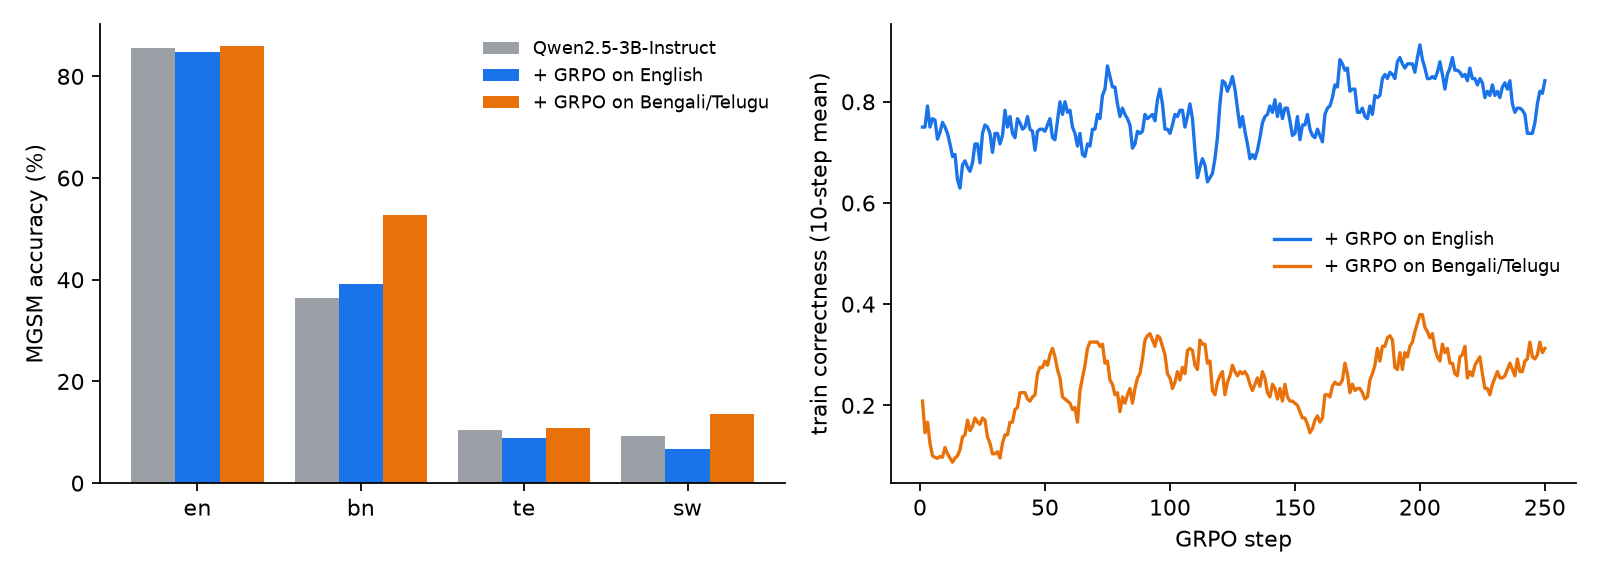
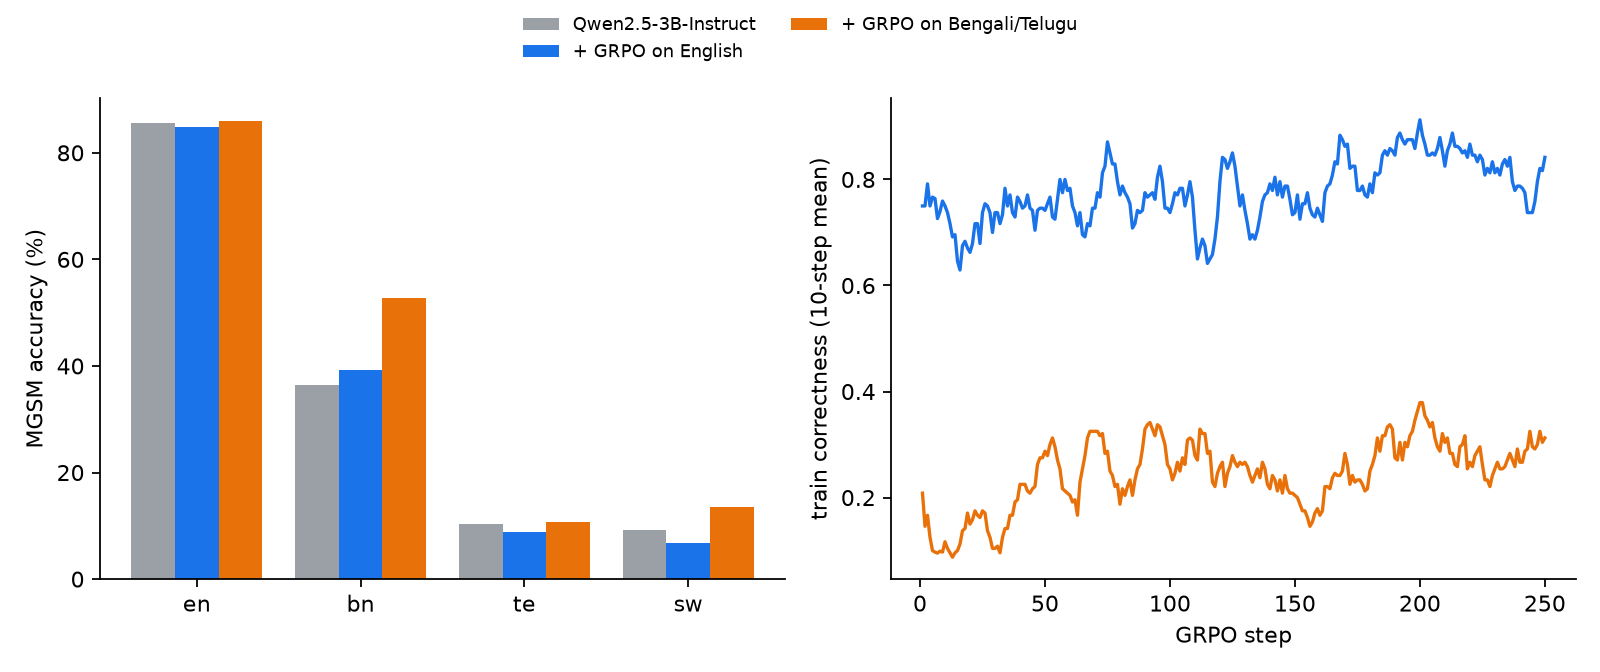
analyze: optional consistency arm, accuracy split by reasoning language, shared legend

diff --git a/scripts/analyze.py b/scripts/analyze.py
@@ -2,7 +2,7 @@
 
 Example:
     python scripts/analyze.py --base results/baseline/Qwen2.5-3B-Instruct \
-        --en results/full_en --indic results/full_indic --out results
+        --en results/full_en --indic results/full_indic [--cons results/full_indic_consistency] --out results
 """
 
 import argparse
@@ -38,33 +38,53 @@ def main():
     p.add_argument("--base", type=Path, required=True)
     p.add_argument("--en", type=Path, required=True)
     p.add_argument("--indic", type=Path, required=True)
+    p.add_argument("--cons", type=Path, help="optional Indic + consistency-reward arm")
     p.add_argument("--out", type=Path, required=True)
     a = p.parse_args()
 
+    dirs = {"base": a.base, "en": a.en, "indic": a.indic} | ({"cons": a.cons} if a.cons else {})
     S = {name: item_scores(load_rows(d / "completions.jsonl" if (d / "completions.jsonl").exists() else d / "eval" / "completions.jsonl"))
-         for name, d in [("base", a.base), ("en", a.en), ("indic", a.indic)]}
+         for name, d in dirs.items()}
+    arms = [n for n in S if n != "base"]
     table = {name: {l: round(acc(s, l), 1) for l in LANGS} for name, s in S.items()}
     drift = {name: {l: round(acc(s, l, 1), 1) for l in LANGS} for name, s in S.items()}
     gains = {arm: {l: paired_gain(S["base"], S[arm], [l]) for l in LANGS} | {"bn+te": paired_gain(S["base"], S[arm], ["bn", "te"])}
-             for arm in ("en", "indic")}
+             for arm in arms}
     tr = {g: transfer_ratio(S["base"], S["en"], S["indic"], langs) for g, langs in [("bn+te", ["bn", "te"]), ("bn", ["bn"]), ("te", ["te"])]}
 
-    summary = {"accuracy": table, "english_reasoning_share": drift, "gains": gains, "transfer_ratio": tr}
+    by_lang = {}  # accuracy split by whether the completion reasons mostly in English
+    for n in S:
+        for l in ("bn", "te"):
+            for tag, flag in (("english", 1.0), ("native", 0.0)):
+                ks = [k for k, v in S[n].items() if k[0] == l and v[1] == flag]
+                by_lang.setdefault(n, {})[f"{l}_{tag}"] = {
+                    "n": len(ks),
+                    "acc": round(100 * sum(S[n][k][0] for k in ks) / len(ks), 1) if ks else None,
+                    "base_acc_same_items": round(100 * sum(S["base"][k][0] for k in ks) / len(ks), 1) if ks else None,
+                }
+    summary = {"accuracy": table, "english_reasoning_share": drift, "gains": gains, "transfer_ratio": tr,
+               "accuracy_by_reasoning_language": by_lang}
     a.out.mkdir(parents=True, exist_ok=True)
     (a.out / "summary.json").write_text(json.dumps(summary, indent=2))
 
     f = lambda g: f"{100 * g['gain']:+.1f} [{100 * g['lo']:+.1f}, {100 * g['hi']:+.1f}]"
     md = ["## MGSM accuracy (%, greedy, 250 items per language)", "", "| Model | " + " | ".join(LANGS) + " |", "|---" * (len(LANGS) + 1) + "|"]
-    names = {"base": "Qwen2.5-3B-Instruct", "en": "+ GRPO on English", "indic": "+ GRPO on Bengali/Telugu"}
-    md += [f"| {names[n]} | " + " | ".join(f"{table[n][l]:.1f}" for l in LANGS) + " |" for n in ("base", "en", "indic")]
+    names = {"base": "Qwen2.5-3B-Instruct", "en": "+ GRPO on English", "indic": "+ GRPO on Bengali/Telugu",
+             "cons": "+ GRPO on Bengali/Telugu + consistency reward"}
+    md += [f"| {names[n]} | " + " | ".join(f"{table[n][l]:.1f}" for l in LANGS) + " |" for n in S]
     md += ["", "## Gain over base (points, 95% paired bootstrap CI)", "", "| Arm | " + " | ".join(LANGS + ["bn+te"]) + " |", "|---" * (len(LANGS) + 2) + "|"]
-    md += [f"| {names[arm]} | " + " | ".join(f(gains[arm][l]) for l in LANGS + ["bn+te"]) + " |" for arm in ("en", "indic")]
+    md += [f"| {names[arm]} | " + " | ".join(f(gains[arm][l]) for l in LANGS + ["bn+te"]) + " |" for arm in arms]
     md += ["", "## Transfer ratio (English-arm gain / Indic-arm gain)", ""]
     for g, t in tr.items():
         ci = f"[{t['lo']:.2f}, {t['hi']:.2f}]" if t["lo"] is not None else "(CI undefined: Indic-arm gain not reliably positive)"
         md.append(f"- {g}: {t['ratio']:.2f} {ci}")
     md += ["", "## Share of completions reasoning mostly in English (%)", "", "| Model | " + " | ".join(LANGS) + " |", "|---" * (len(LANGS) + 1) + "|"]
-    md += [f"| {names[n]} | " + " | ".join(f"{drift[n][l]:.1f}" for l in LANGS) + " |" for n in ("base", "en", "indic")]
+    md += [f"| {names[n]} | " + " | ".join(f"{drift[n][l]:.1f}" for l in LANGS) + " |" for n in S]
+    md += ["", "## Accuracy by reasoning language (%; n items; base accuracy on the same items)", "",
+           "| Model | bn, English reasoning | bn, Bengali reasoning | te, English reasoning | te, Telugu reasoning |", "|---" * 5 + "|"]
+    cell = lambda d: f"{d['acc']:.1f} (n={d['n']}; base {d['base_acc_same_items']:.1f})" if d["n"] else "-"
+    md += [f"| {names[n]} | " + " | ".join(cell(by_lang[n][c]) for c in ("bn_english", "bn_native", "te_english", "te_native")) + " |"
+           for n in arms]
     (a.out / "summary.md").write_text("\n".join(md) + "\n")
     print("\n".join(md))
 
@@ -73,22 +93,23 @@ def main():
     matplotlib.use("Agg")
     import matplotlib.pyplot as plt
 
-    fig, axes = plt.subplots(1, 2, figsize=(10, 3.6))
+    fig, axes = plt.subplots(1, 2, figsize=(10, 4.2))
     x = range(len(LANGS))
-    for i, (n, c) in enumerate([("base", "#9aa0a6"), ("en", "#1a73e8"), ("indic", "#e8710a")]):
-        axes[0].bar([j + (i - 1) * 0.27 for j in x], [table[n][l] for l in LANGS], 0.27, label=names[n], color=c)
+    colors = {"base": "#9aa0a6", "en": "#1a73e8", "indic": "#e8710a", "cons": "#188038"}
+    w = 0.8 / len(S)
+    for i, n in enumerate(S):
+        axes[0].bar([j + (i - (len(S) - 1) / 2) * w for j in x], [table[n][l] for l in LANGS], w, label=names[n], color=colors[n])
     axes[0].set_xticks(list(x), LANGS)
     axes[0].set_ylabel("MGSM accuracy (%)")
-    axes[0].legend(frameon=False, fontsize=8)
     axes[0].spines[["top", "right"]].set_visible(False)
-    for arm, c in [("en", "#1a73e8"), ("indic", "#e8710a")]:
-        steps, corr, _ = curves(a.en if arm == "en" else a.indic)
-        axes[1].plot(steps, smooth(corr), color=c, label=names[arm])
+    for arm in arms:
+        steps, corr, _ = curves(dirs[arm])
+        axes[1].plot(steps, smooth(corr), color=colors[arm])
     axes[1].set_xlabel("GRPO step")
     axes[1].set_ylabel("train correctness (10-step mean)")
     axes[1].spines[["top", "right"]].set_visible(False)
-    axes[1].legend(frameon=False, fontsize=8)
-    fig.tight_layout()
+    fig.legend(*axes[0].get_legend_handles_labels(), loc="upper center", ncol=2, frameon=False, fontsize=8)
+    fig.tight_layout(rect=(0, 0, 1, 0.89))
     fig.savefig(a.out / "figure_main.png", dpi=160)
 
 

diff --git a/results/summary.md b/results/summary.md
@@ -26,3 +26,10 @@
 | Qwen2.5-3B-Instruct | 100.0 | 0.0 | 0.0 | 100.0 |
 | + GRPO on English | 100.0 | 0.0 | 0.0 | 100.0 |
 | + GRPO on Bengali/Telugu | 100.0 | 76.0 | 55.2 | 100.0 |
+
+## Accuracy by reasoning language (%; n items; base accuracy on the same items)
+
+| Model | bn, English reasoning | bn, Bengali reasoning | te, English reasoning | te, Telugu reasoning |
+|---|---|---|---|---|
+| + GRPO on English | - | 39.2 (n=250; base 36.4) | - | 8.8 (n=250; base 10.4) |
+| + GRPO on Bengali/Telugu | 57.4 (n=190; base 36.3) | 38.3 (n=60; base 36.7) | 14.5 (n=138; base 11.6) | 6.2 (n=112; base 8.9) |
